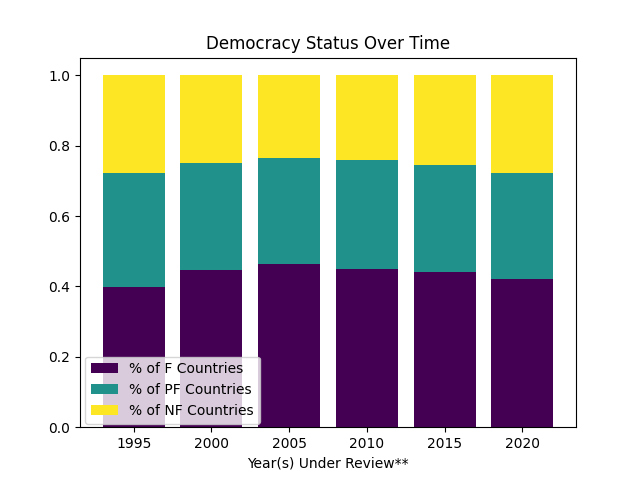
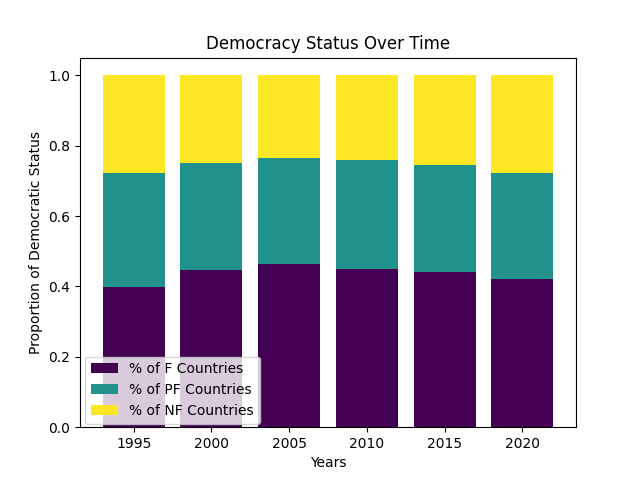
add labels to historical graph

Changed region(s): [[0.0312, 0.2812, 0.0625, 0.75], [0.375, 0.9375, 0.6562, 1.0]]

diff --git a/main.py b/main.py
@@ -31,10 +31,10 @@ def create_historical_bar_plot(data, x_col, y_cols, year_mod=5, bar_width=4, des
             bottoms = data[y_col]
         else:
             bottoms = bottoms + data[y_col]
-    plt.xlabel(x_col)
+    plt.xlabel("Years")
     plt.title("Democracy Status Over Time")
     plt.legend(y_cols, loc=(0.01, 0.01))
-    plt.ylabel(",".join(legend_list))
+    plt.ylabel("Proportion of Democratic Status")
     plt.savefig(dest)
     plt.clf()
 
